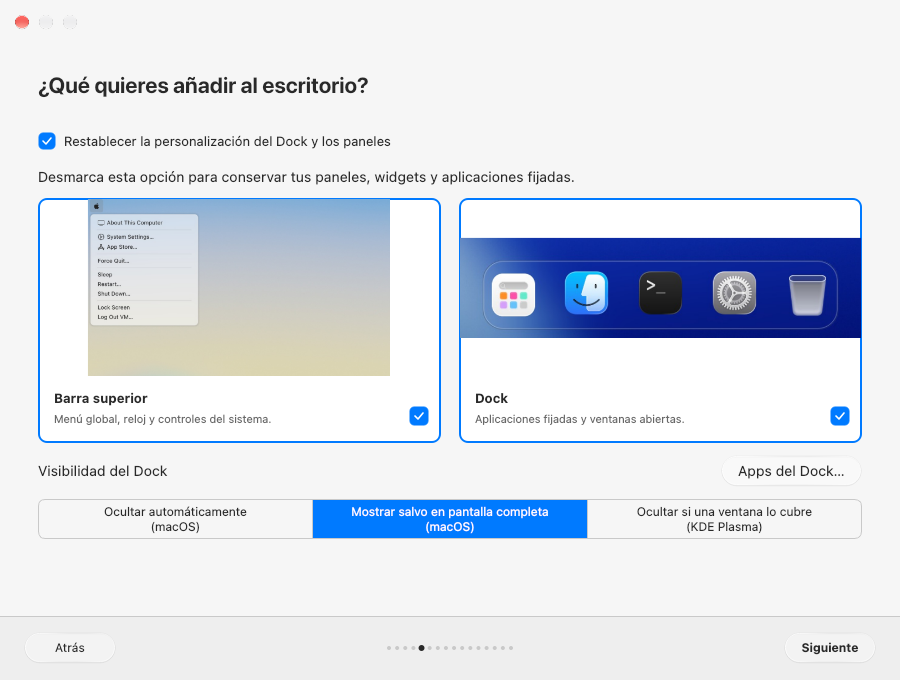
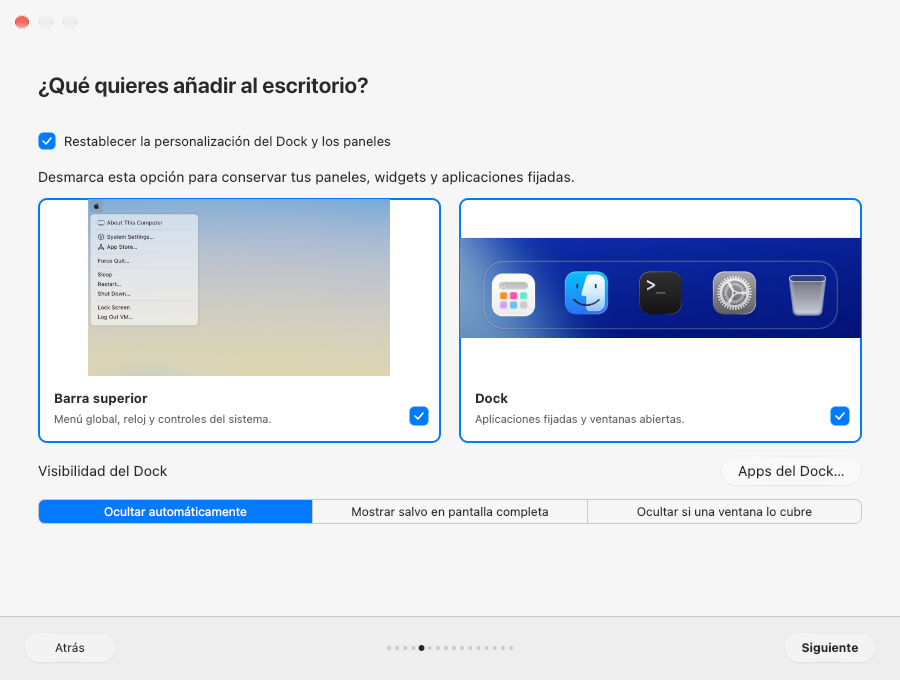
Pin the revised auto-hide default and approved selector options

Changed region(s): [[0.0311, 0.7103, 0.6533, 0.8029], [0.7467, 0.7721, 0.84, 0.8029]]

diff --git a/README.fr.md b/README.fr.md
@@ -379,7 +379,7 @@ Une apparence assortie du démarrage à l’arrêt, avec déverrouillage intégr
 - **Effets de verre :** flou, réfraction et dégradés à trois couleurs réglables pour les modes clair et sombre.
 - **Compatibilité :** Plasma 6.6–6.8, avec des effets natifs compilés contre les versions installées de Qt et KWin.
 - **Launchpad :** deux dispositions, recherche intégrée ou détachée, favoris et catégories d’applications défilantes.
-- **Dock** Le Dock suit le bord inférieur que vous touchez et conserve vos apps épinglées. Le programme d’installation propose le masquage automatique, l’affichage permanent (par défaut) ou le masquage lorsqu’une fenêtre le recouvre.
+- **Dock** Le Dock suit le bord inférieur que vous touchez et conserve vos apps épinglées. Le programme d’installation propose le masquage automatique (par défaut), l’affichage hors plein écran ou le masquage lorsqu’une fenêtre le recouvre.
 - **Apparence :** styles clairs/sombres synchronisés pour le bureau, les applications, les icônes et les décorations de fenêtres ; fonds d’écran par moniteur.
 - **Intégration des applications :** menus globaux, correctifs des menus GTK, Nautilus de style Finder et thème Firefox avec sauvegardes des profils.
 - **Récupération :** vérification des prérequis, sauvegardes des réglages et restauration à la désinstallation.

diff --git a/README.es.md b/README.es.md
@@ -379,7 +379,7 @@ Una apariencia coordinada desde el inicio hasta el apagado, con desbloqueo integ
 - **Efectos de cristal:** desenfoque, refracción y degradados de tres colores ajustables para los modos claro y oscuro.
 - **Compatibilidad:** Plasma 6.6–6.8, con efectos nativos compilados contra las versiones instaladas de Qt y KWin.
 - **Launchpad:** dos disposiciones, búsqueda integrada o separada, favoritos y categorías de aplicaciones desplazables.
-- **Dock** El Dock se mueve a la pantalla cuyo borde inferior toques y conserva tus apps fijadas. En el instalador puedes elegir ocultarlo automáticamente, dejarlo visible (por defecto) u ocultarlo cuando una ventana lo cubra.
+- **Dock** El Dock se mueve a la pantalla cuyo borde inferior toques y conserva tus apps fijadas. En el instalador puedes elegir ocultarlo automáticamente (por defecto), mostrarlo salvo en pantalla completa u ocultarlo cuando una ventana lo cubra.
 - **Apariencia:** estilos claros/oscuros sincronizados para el escritorio, aplicaciones, iconos y decoraciones de ventanas; fondos por monitor.
 - **Integración de aplicaciones:** menús globales, correcciones de menús GTK, Nautilus al estilo Finder y tema para Firefox con copias de perfiles.
 - **Recuperación:** comprobación de requisitos, copias de ajustes y restauración al desinstalar.

diff --git a/README.de.md b/README.de.md
@@ -379,7 +379,7 @@ Ein abgestimmtes Erscheinungsbild vom Start bis zum Herunterfahren mit integrier
 - **Glaseffekte:** einstellbare Unschärfe, Brechung und dreifarbige Verläufe für helle und dunkle Modi.
 - **Kompatibilität:** Plasma 6.6–6.8 mit nativen Effekten, die gegen die installierten Qt- und KWin-Versionen kompiliert werden.
 - **Launchpad:** zwei Anordnungen, integrierte oder abgetrennte Suche, Favoriten und scrollbare Anwendungskategorien.
-- **Dock** Das Dock folgt dem berührten unteren Bildschirmrand und behält angeheftete Apps. Im Installer stehen automatisches Ausblenden, immer sichtbar (Standard) und Ausblenden bei überlappenden Fenstern zur Wahl.
+- **Dock** Das Dock folgt dem berührten unteren Bildschirmrand und behält angeheftete Apps. Im Installer stehen automatisches Ausblenden (Standard), Anzeigen außerhalb des Vollbilds und Ausblenden bei überlappenden Fenstern zur Wahl.
 - **Erscheinungsbild:** synchronisierte helle/dunkle Stile für Desktop, Anwendungen, Symbole und Fensterdekorationen; Hintergrundbilder pro Monitor.
 - **Anwendungsintegration:** globale Menüs, GTK-Menükorrekturen, Nautilus im Finder-Stil und Firefox-Design mit Profilsicherungen.
 - **Wiederherstellung:** Prüfung der Voraussetzungen, Einstellungssicherungen und Wiederherstellung bei der Deinstallation.

diff --git a/README.pt-BR.md b/README.pt-BR.md
@@ -379,7 +379,7 @@ Uma aparência coordenada da inicialização ao desligamento, com desbloqueio in
 - **Efeitos de vidro:** desfoque, refração e gradientes de três cores ajustáveis para os modos claro e escuro.
 - **Compatibilidade:** Plasma 6.6–6.8, com efeitos nativos compilados com as versões instaladas do Qt e KWin.
 - **Launchpad:** dois layouts, pesquisa integrada ou separada, favoritos e categorias de aplicativos roláveis.
-- **Dock** O Dock segue a borda inferior que você tocar e mantém seus apps fixados. No instalador, escolha ocultar automaticamente, mostrar sempre (padrão) ou ocultar quando uma janela cobrir o Dock.
+- **Dock** O Dock segue a borda inferior que você tocar e mantém seus apps fixados. No instalador, escolha ocultar automaticamente (padrão), mostrar fora da tela cheia ou ocultar quando uma janela cobrir o Dock.
 - **Aparência:** estilos claro/escuro sincronizados para o ambiente, aplicativos, ícones e decorações de janelas; papéis de parede por monitor.
 - **Integração de aplicativos:** menus globais, correções de menus GTK, Nautilus no estilo Finder e tema do Firefox com backups de perfis.
 - **Recuperação:** verificações de requisitos, backups de configurações e restauração na desinstalação.

diff --git a/README.md b/README.md
@@ -305,7 +305,7 @@ A matching look from startup to shutdown, with built-in unlocking for LUKS2-encr
 - **Glass effects:** adjustable blur, refraction and three-color gradients for light and dark modes.
 - **Compatibility:** Plasma 6.6–6.8, with native effects compiled against the installed Qt and KWin versions.
 - **Launchpad:** two layouts, integrated or detached search, favorites and scrollable app categories.
-- **Dock** The Dock follows the bottom edge you touch and keeps your pins. In the installer, choose auto-hide, always visible (default), or hide when a window overlaps.
+- **Dock** The Dock follows the bottom edge you touch and keeps your pins. In the installer, choose auto-hide (default), show outside full screen, or hide when a window overlaps.
 - **Appearance:** synchronized light/dark styles for the desktop, apps, icons and window decorations; per-monitor wallpapers.
 - **App integration:** global menus, GTK menu fixes, Finder-style Nautilus and Firefox theming with profile backups.
 - **Recovery:** requirement checks, settings backups and uninstall restoration.
